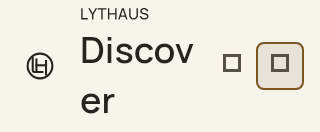
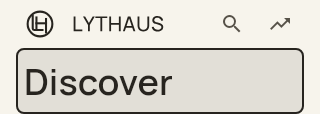
docs(ui): replace stale header evidence with verified native captures

diff --git a/docs/evidence/app-brand-foundation-20261015/README.md b/docs/evidence/app-brand-foundation-20261015/README.md
@@ -3,9 +3,13 @@
 These screenshots are committed evidence for PR1024 and can be inspected directly
 in GitHub. Before: `489aef297ff0b1a40744504594122c9ebc43930d` (main).
 After: `dff240c8b80f8e34316016de6049bc273709d8a6` (brand implementation).
-The follow-up corrects the filled icon variant's foreground and inset focus border; separate
-captures below show that fix. The existing header captures remain representative
-because its standard icon controls are unchanged by the follow-up.
+The follow-up corrects the filled icon variant's foreground and inset focus border.
+All native header/icon captures were regenerated from clean revision
+`420deb85` (app and test sources identical to `ed56f6d`).
+The earlier light/320px/200% image was stale and incorrectly attributed: it showed
+a split title, missing glyphs and the old single-row layout. That image is replaced;
+it is not evidence of the current implementation. The other five enlarged header
+images reproduced byte for byte. No app code change was required for this correction.
 [manifest.json](manifest.json) identifies each capture, size, timestamp, source
 commit and SHA-256. Images are retained unchanged, without cropping or retouching.
 
@@ -57,7 +61,9 @@ default glyph and two-pixel inset border now use `onPrimary`. Tests check
 at least 3:1 against the actual Material fill and the composited focused fill.
 Enabled glyphs also pass 3:1 against their rendered fills. Standard/outlined
 borders are also checked against the exterior canvas. The
-manifest records the source content hash for these follow-up icon captures.
+manifest records the exact capture revision and file hashes. The
+[native receipt](native/results.json) records all 28 passing tests, source hashes,
+capture times and clean-tree checks for the fresh run.
 
 ## Reproduction and limits
 
@@ -75,10 +81,7 @@ flutter build web --no-pub --release --no-web-resources-cdn \
   --dart-define=ENVIRONMENT=production \
   --dart-define=AUTH_URL="$AUTH_URL" --dart-define=API_BASE_URL="$API_BASE_URL"
 node docs/evidence/app-brand-foundation-20261015/capture.mjs after
-LYTHAUS_BRAND_EVIDENCE=/tmp/lythaus-brand-evidence/headers \
-  flutter test --no-pub test/design_system/brand_foundation_test.dart
-LYTHAUS_BRAND_EVIDENCE=/tmp/lythaus-brand-evidence/icons \
-  flutter test --no-pub test/design_system/brand_accessibility_test.dart
+node docs/evidence/app-brand-foundation-20261015/capture-native.mjs
 node --test scripts/tests/app-brand-assets.test.mjs
 ```
 
@@ -86,6 +89,9 @@ Use `LYTHAUS_BRAND_BUILD` to select an isolated baseline build and pass `before`
 to the capture script; `LYTHAUS_BRAND_OUTPUT` changes the output directory.
 The capture script writes to temporary output by default, never this evidence
 directory. Full receipts: [before](before/results.json), [after](after/results.json).
+The native reproducer requires a clean source tree, uses a new temporary directory
+on every run, requires all 28 tests to pass and records only files from that run.
+It never promotes old temporary output into the gallery automatically.
 Both runs recorded four viewports/themes and no unexpected console/runtime errors.
 The synthetic guest's expected 401 refresh rejection is excluded from errors.
 
